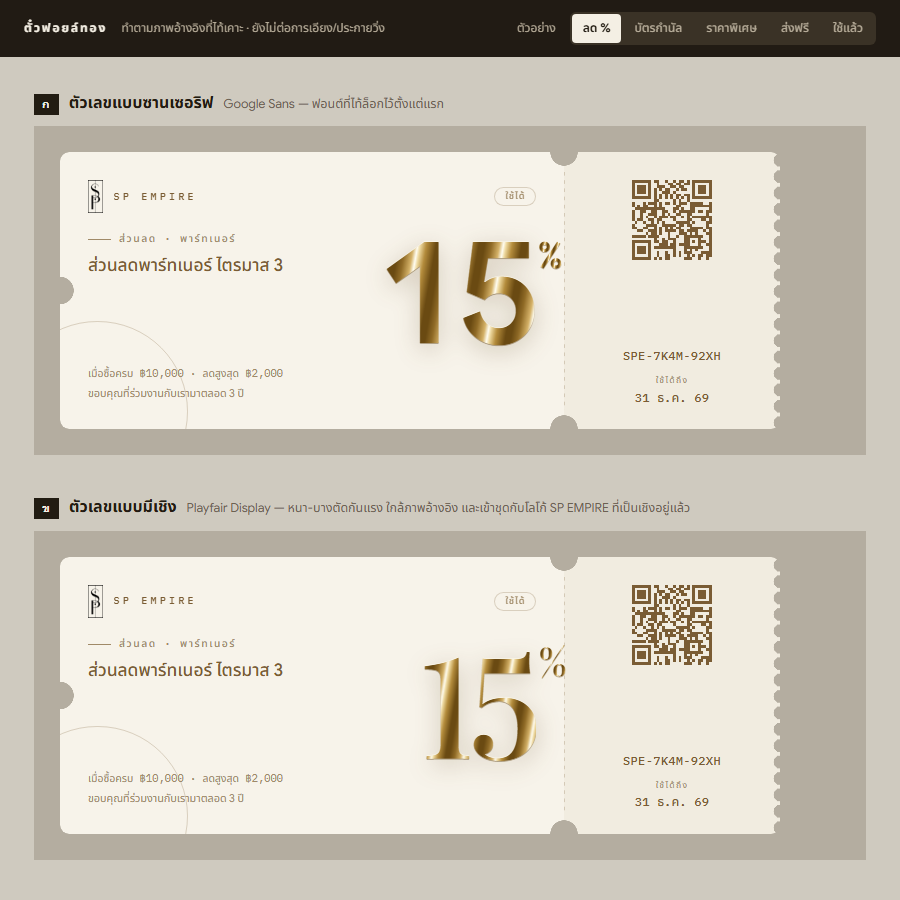
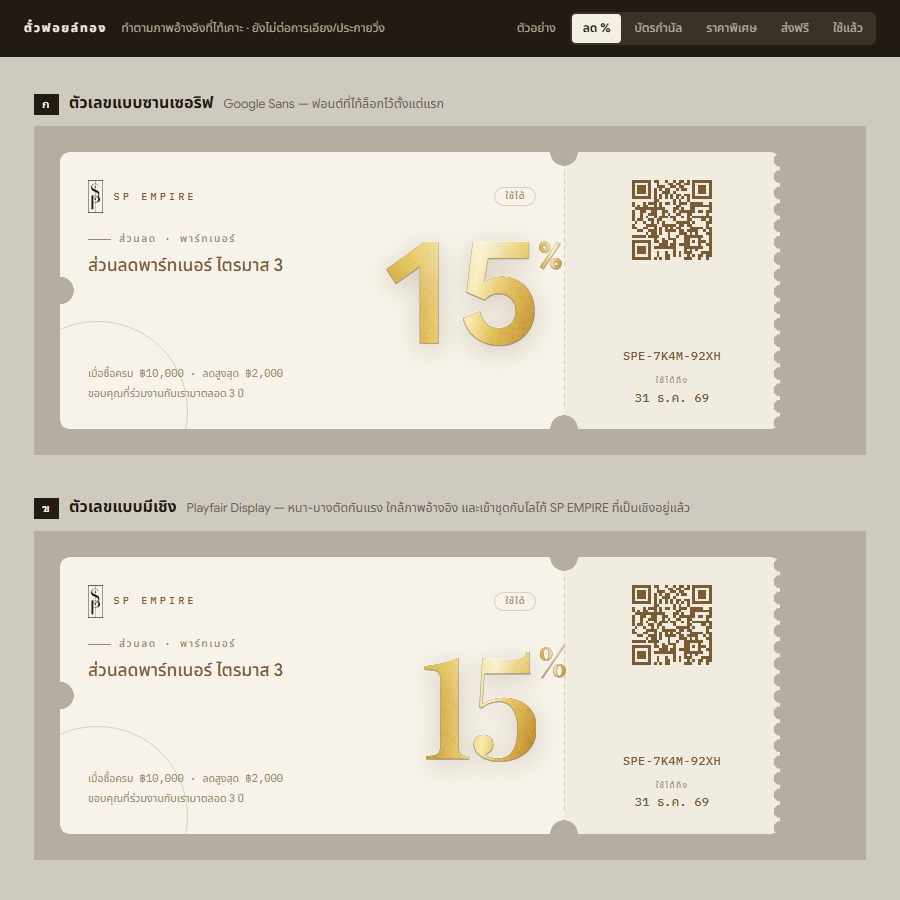
design: rebuild the gold as leaf, not chrome
Tie sent close-ups of the foil he wants and said mine was nothing like it. He
was right, and the gap was a wrong idea about what sells metal: I had built
wide light-to-dark bands swinging from deep brown to white, which reads as
polished chrome or a gradient-text effect. Real gold leaf is close to a single
tone; what makes it convincing is a fine rough surface, not contrast.

So the value is now three stacked layers clipped to the glyphs:
- a tiling grain image, blended overlay, sized in fixed px so the texture stays
  a constant material regardless of how big the numeral is
- a vertical shading pass giving each stroke a lit top and a shadowed foot
- a gentle sweep that never leaves the gold range, and is what the tilt moves

The grain is generated, not drawn: tools/make-foil-grain.py band-passes white
noise in the frequency domain, which comes out periodic, so the tile is seamless
by construction rather than by retouching. Measured seam difference 12.4 against
14.8 for ordinary neighbouring pixels — the edges are indistinguishable from the
middle. 20KB webp.

On cost, which Tie asked to keep minimal: one small image the browser lays down
once, no procedural filter recomputing per frame. The card's tilt is a GPU
transform; only the sheen forces a repaint, and that is now skipped unless the
position moves at least half a percent, which is below what the eye resolves.

Two rounds to get the grain right — the first pass leaned on low frequencies and
[…]

Changed region(s): [[0.4356, 0.2489, 0.6222, 0.4044], [0.4667, 0.7156, 0.6222, 0.84]]

diff --git a/src/styles/designs/foilticket.css b/src/styles/designs/foilticket.css
@@ -31,21 +31,26 @@
      ไม่ได้มาจากสีทองสวย ๆ · ถ้ายืดแผ่นฟอยล์กว้างเกิน ในตัวเลขจะเหลือแถบเดียว
      แล้วมันจะดูเป็น "ตัวหนังสือสีน้ำตาลทอง" เฉย ๆ ไม่ใช่ฟอยล์
      3 ยอดสว่าง + ร่องเข้มคั่น = อ่านเป็นผิวโลหะทันที */
-  /* ⚠ 3 รอบที่แล้วเปลี่ยนสีไปเรื่อยแต่ภาพแทบไม่ต่าง เพราะแก้ผิดจุด
-     ความ "เป็นโลหะ" ไม่ได้อยู่ที่โทนสี แต่อยู่ที่ **ขอบระหว่างสว่างกับมืดต้องคม**
-     ไล่เฉดนุ่ม ๆ ที่ตัวอักษรสูง 140px = ไล่กันเป็นสิบพิกเซล ตาอ่านว่า "พ่นสีไล่เฉด"
-     ใช้ลายซ้ำเพื่อคุมความถี่ให้แน่นอน: ร่องเข้มกว้าง → พุ่งขาวเร็ว → ตกกลับเข้ม
-     คาบราว 40px บนตัวเลข = มีแถบพาดผ่านราว 4 แถบ ซึ่งเป็นระยะที่ตาอ่านว่าโลหะ */
-  --ft-foil: repeating-linear-gradient(
+  /* ── ฟอยล์ทอง = 2 ชั้นซ้อนกัน ──────────────────────────────────────────
+     ⚠ เคยทำเป็นแถบสว่าง-มืดสลับแรง ๆ → ออกมาเป็น "โครเมียม/พลาสติกเงา"
+        ไท้ทักว่าต่างจากที่ต้องการลิบ · ทองแผ่นจริง **โทนค่อนข้างสม่ำเสมอ**
+        ความน่าเชื่อมาจาก "ผิวหยาบละเอียด" ไม่ใช่จากคอนทราสต์สว่าง-มืด
+
+     ชั้นบน = ผิวฟอยล์ (ภาพเทาเล็ก ๆ ปูซ้ำ ผสมแบบ overlay)
+       เลือกเป็นภาพเพราะ **ถูกที่สุด** — เบราว์เซอร์วางครั้งเดียวจบ
+       การ์ดเอียงกี่ครั้งก็ไม่คำนวณใหม่ ต่างจากฟิลเตอร์สร้างลายที่คิดใหม่ทุกเฟรม
+       ขนาดคงที่เป็น px (ไม่ผูกกับขนาดตัวอักษร) — ผิวจึงหยาบเท่ากันทุกใบ เหมือนวัสดุจริง
+     ชั้นล่าง = ไล่เฉดทองอ่อน ๆ ไล่อยู่ในโทนทองล้วน ไม่มีน้ำตาลเข้ม ไม่มีขาว
+       มีแถบสว่างกว้าง ๆ แถบเดียว = แสงที่วิ่งตามการเอียง                      */
+  --ft-foil-tex: url('../../../assets/textures/foil-grain.webp');
+  /* ชั้นกลาง = ความกลมของเส้น (หัวเส้นรับแสง ก้นเส้นตกเงา) — เทา 128 คือ "ไม่เปลี่ยน" */
+  --ft-foil-round: linear-gradient(
+    177deg, #c4c4c4 0%, #a6a6a6 22%, #808080 46%, #6d6d6d 72%, #5c5c5c 100%
+  );
+  --ft-foil-grad: linear-gradient(
     100deg,
-    #6a4a12 0%,
-    #8f6a26 2%,
-    #d4b167 4.4%,
-    #fffdf2 5.6%,
-    #eed9a0 6.4%,
-    #b48c3c 8.2%,
-    #6a4a12 11%,
-    #6a4a12 12.7%
+    #9d6f1c 0%, #ba8a26 13%, #d8ae4a 29%, #efd88f 43%, #fbedbb 50%,
+    #e7c96f 58%, #ca9a34 73%, #ac7f20 88%, #96691a 100%
   );
 
   --ft-mono: 'IBM Plex Mono', 'Noto Sans Thai', ui-monospace, monospace;
@@ -255,10 +260,12 @@
   line-height: 0.86;
   letter-spacing: -0.04em;
 
-  /* ฟอยล์: ทาไล่เฉดทองแล้วฉลุตามรูปตัวอักษร */
-  background-image: var(--ft-foil);
-  background-size: 200% 100%;
-  background-position: var(--ft-shift) 50%;
+  /* ฟอยล์: ผิวหยาบทับไล่เฉดทอง แล้วฉลุทั้งสองชั้นตามรูปตัวอักษร */
+  background-image: var(--ft-foil-tex), var(--ft-foil-round), var(--ft-foil-grad);
+  background-size: 76px 76px, 100% 100%, 200% 100%;
+  background-position: 0 0, 0 0, var(--ft-shift) 50%;
+  background-repeat: repeat, no-repeat, no-repeat;
+  background-blend-mode: overlay, overlay, normal;
   -webkit-background-clip: text;
   background-clip: text;
   color: transparent;
@@ -290,9 +297,11 @@
   top: 0.06em;
   font-family: var(--ft-num); font-weight: 600;
   font-size: calc(var(--vk-u) * 2.3); line-height: 1;
-  background-image: var(--ft-foil);
-  background-size: 200% 100%;
-  background-position: var(--ft-shift) 50%;
+  background-image: var(--ft-foil-tex), var(--ft-foil-round), var(--ft-foil-grad);
+  background-size: 76px 76px, 100% 100%, 200% 100%;
+  background-position: 0 0, 0 0, var(--ft-shift) 50%;
+  background-repeat: repeat, no-repeat, no-repeat;
+  background-blend-mode: overlay, overlay, normal;
   -webkit-background-clip: text;
   background-clip: text;
   color: transparent;
@@ -363,6 +372,6 @@
   --ft-ink: #8b857a;
   --ft-ink-2: #a8a297;
   --ft-line: rgba(139, 133, 122, 0.26);
-  --ft-foil: linear-gradient(100deg,
+  --ft-foil-grad: linear-gradient(100deg,
     #9a958b 0%, #c3bcae 24%, #e4dfd6 38%, #c3bcae 56%, #9a958b 78%, #b8b1a5 100%);
 }

diff --git a/src/ui/foil-tilt.js b/src/ui/foil-tilt.js
@@ -81,11 +81,19 @@ export async function attachFoilTilt(card, opt = {}) {
   });
 
   /* ไลบรารีส่งตำแหน่งปัจจุบันมาให้ทุกเฟรมเป็น 0–100
-     เอามาแปลงเป็นตำแหน่งแผ่นฟอยล์ → เอียงซ้ายประกายไปทางหนึ่ง เอียงขวาไปอีกทาง */
+     เอามาแปลงเป็นตำแหน่งแผ่นฟอยล์ → เอียงซ้ายประกายไปทางหนึ่ง เอียงขวาไปอีกทาง
+
+     ตัวใบเอียงด้วยการ์ดจอ (แทบไม่กินแรง) แต่การเลื่อนแผ่นฟอยล์ต้องวาดตัวเลขใหม่
+     จึงกันไม่ให้สั่งวาดถี่เกินจำเป็น: ขยับไม่ถึงครึ่งเปอร์เซ็นต์ = ข้ามไปเลย
+     ตาคนมองไม่เห็นความต่างระดับนั้นอยู่แล้ว แต่ช่วยลดการวาดได้เยอะบนมือถือ */
+  let last = -999;
   const onTilt = (e) => {
     const p = e.detail?.percentageX;
     if (typeof p !== 'number') return;
-    card.style.setProperty('--ft-shift', `${(lo + (p / 100) * (hi - lo)).toFixed(1)}%`);
+    const v = lo + (p / 100) * (hi - lo);
+    if (Math.abs(v - last) < 0.5) return;
+    last = v;
+    card.style.setProperty('--ft-shift', `${v.toFixed(1)}%`);
   };
   card.addEventListener('tiltChange', onTilt);
 

diff --git a/tools/make-foil-grain.py b/tools/make-foil-grain.py
@@ -1,0 +1,61 @@
+# -*- coding: utf-8 -*-
+"""
+สร้าง "ผิวฟอยล์ทอง" เป็นภาพเทาเล็ก ๆ ปูซ้ำได้ไร้รอยต่อ
+----------------------------------------------------------------------
+ทำไมต้องเป็นภาพ ไม่ใช่ฟิลเตอร์: ฟิลเตอร์สร้างลาย (feTurbulence) กินซีพียูหนัก
+และคำนวณใหม่ทุกครั้งที่การ์ดขยับ ส่วนภาพปูซ้ำเบราว์เซอร์วางครั้งเดียวแล้วจบ
+การ์ดเอียงกี่ครั้งก็ไม่คิดใหม่ — ถูกที่สุดสำหรับมือถือ
+
+วิธีทำให้ไร้รอยต่อ: กรองสัญญาณรบกวนด้วย FFT
+ผลลัพธ์จากโดเมนความถี่เป็นคาบโดยธรรมชาติ ขอบซ้าย-ขวา/บน-ล่างจึงต่อกันสนิทเสมอ
+"""
+import numpy as np
+from PIL import Image
+
+SIZE = 256
+rng = np.random.default_rng(20260817)
+
+
+def band(noise, lo, hi):
+    """เก็บเฉพาะความถี่ในช่วงที่ต้องการ — คุมว่าจะได้เกล็ดหยาบหรือละเอียด"""
+    f = np.fft.fft2(noise)
+    fy = np.fft.fftfreq(SIZE)[:, None]
+    fx = np.fft.fftfreq(SIZE)[None, :]
+    r = np.sqrt(fx ** 2 + fy ** 2) * SIZE
+    mask = ((r >= lo) & (r <= hi)).astype(float)
+    out = np.real(np.fft.ifft2(f * mask))
+    s = out.std()
+    return out / s if s > 1e-9 else out
+
+
+white = rng.normal(size=(SIZE, SIZE))
+
+# ⚠ รอบแรกใส่เกล็ดใหญ่เยอะไป → ออกมาเป็นลายด่างเหมือนเชื้อรา ไม่ใช่ผิวฟอยล์
+#    ผิวโลหะจริงที่ตัวอักษรสูงราว 140px ควรเห็นเม็ดขนาด 1-3px เท่านั้น
+#    จึงต้องดันน้ำหนักไปที่ความถี่สูง และลดเกล็ดใหญ่ให้เหลือแค่พอมีทิศทาง
+crease = band(white, 8, 18)
+grain = band(white, 26, 58)
+speck = band(white, 64, 120)
+
+# ยับแบบสันคม: กลับค่าสัมบูรณ์ ทำให้เกิด "สัน" เหมือนรอยพับฟอยล์จริง
+ridge = 1.0 - np.abs(crease / (np.abs(crease).max() + 1e-9))
+ridge = (ridge - ridge.mean()) / (ridge.std() + 1e-9)
+
+mix = 0.22 * ridge + 0.55 * grain + 0.52 * speck
+mix = (mix - mix.mean()) / (mix.std() + 1e-9)
+
+# แปลงเป็นภาพเทารอบ ๆ 128 — โหมดผสมแบบ overlay ใช้ 128 = "ไม่เปลี่ยนอะไร"
+# ⚠ ±34 แรงเกินไป ตัวเลขดูสกปรก · ±17 ให้ความรู้สึก "ผิวมีเนื้อ" โดยไม่กินสีทอง
+img = np.clip(128 + mix * 17, 0, 255).astype(np.uint8)
+
+out = Image.fromarray(img, mode='L')
+out.save('D:/Gift vocher/assets/textures/foil-grain.webp', format='WEBP', quality=82, method=6)
+
+# ตรวจว่าต่อกันสนิทจริง: ขอบซ้าย-ขวาและบน-ล่างต้องต่างกันไม่เกินระดับสัญญาณรบกวนปกติ
+a = img.astype(int)
+seam_x = np.abs(a[:, 0] - a[:, -1]).mean()
+seam_y = np.abs(a[0, :] - a[-1, :]).mean()
+inner_x = np.abs(a[:, 10] - a[:, 11]).mean()
+# ⚠ คอนโซลเครื่องนี้เป็น cp874 พิมพ์ไทยแล้วสคริปต์พัง — ข้อความรายงานต้องเป็น ASCII
+print(f'seam-x {seam_x:.1f} | seam-y {seam_y:.1f} | normal-neighbour {inner_x:.1f}')
+print(f'mean {a.mean():.1f} (want ~128) | min {a.min()} max {a.max()}')
